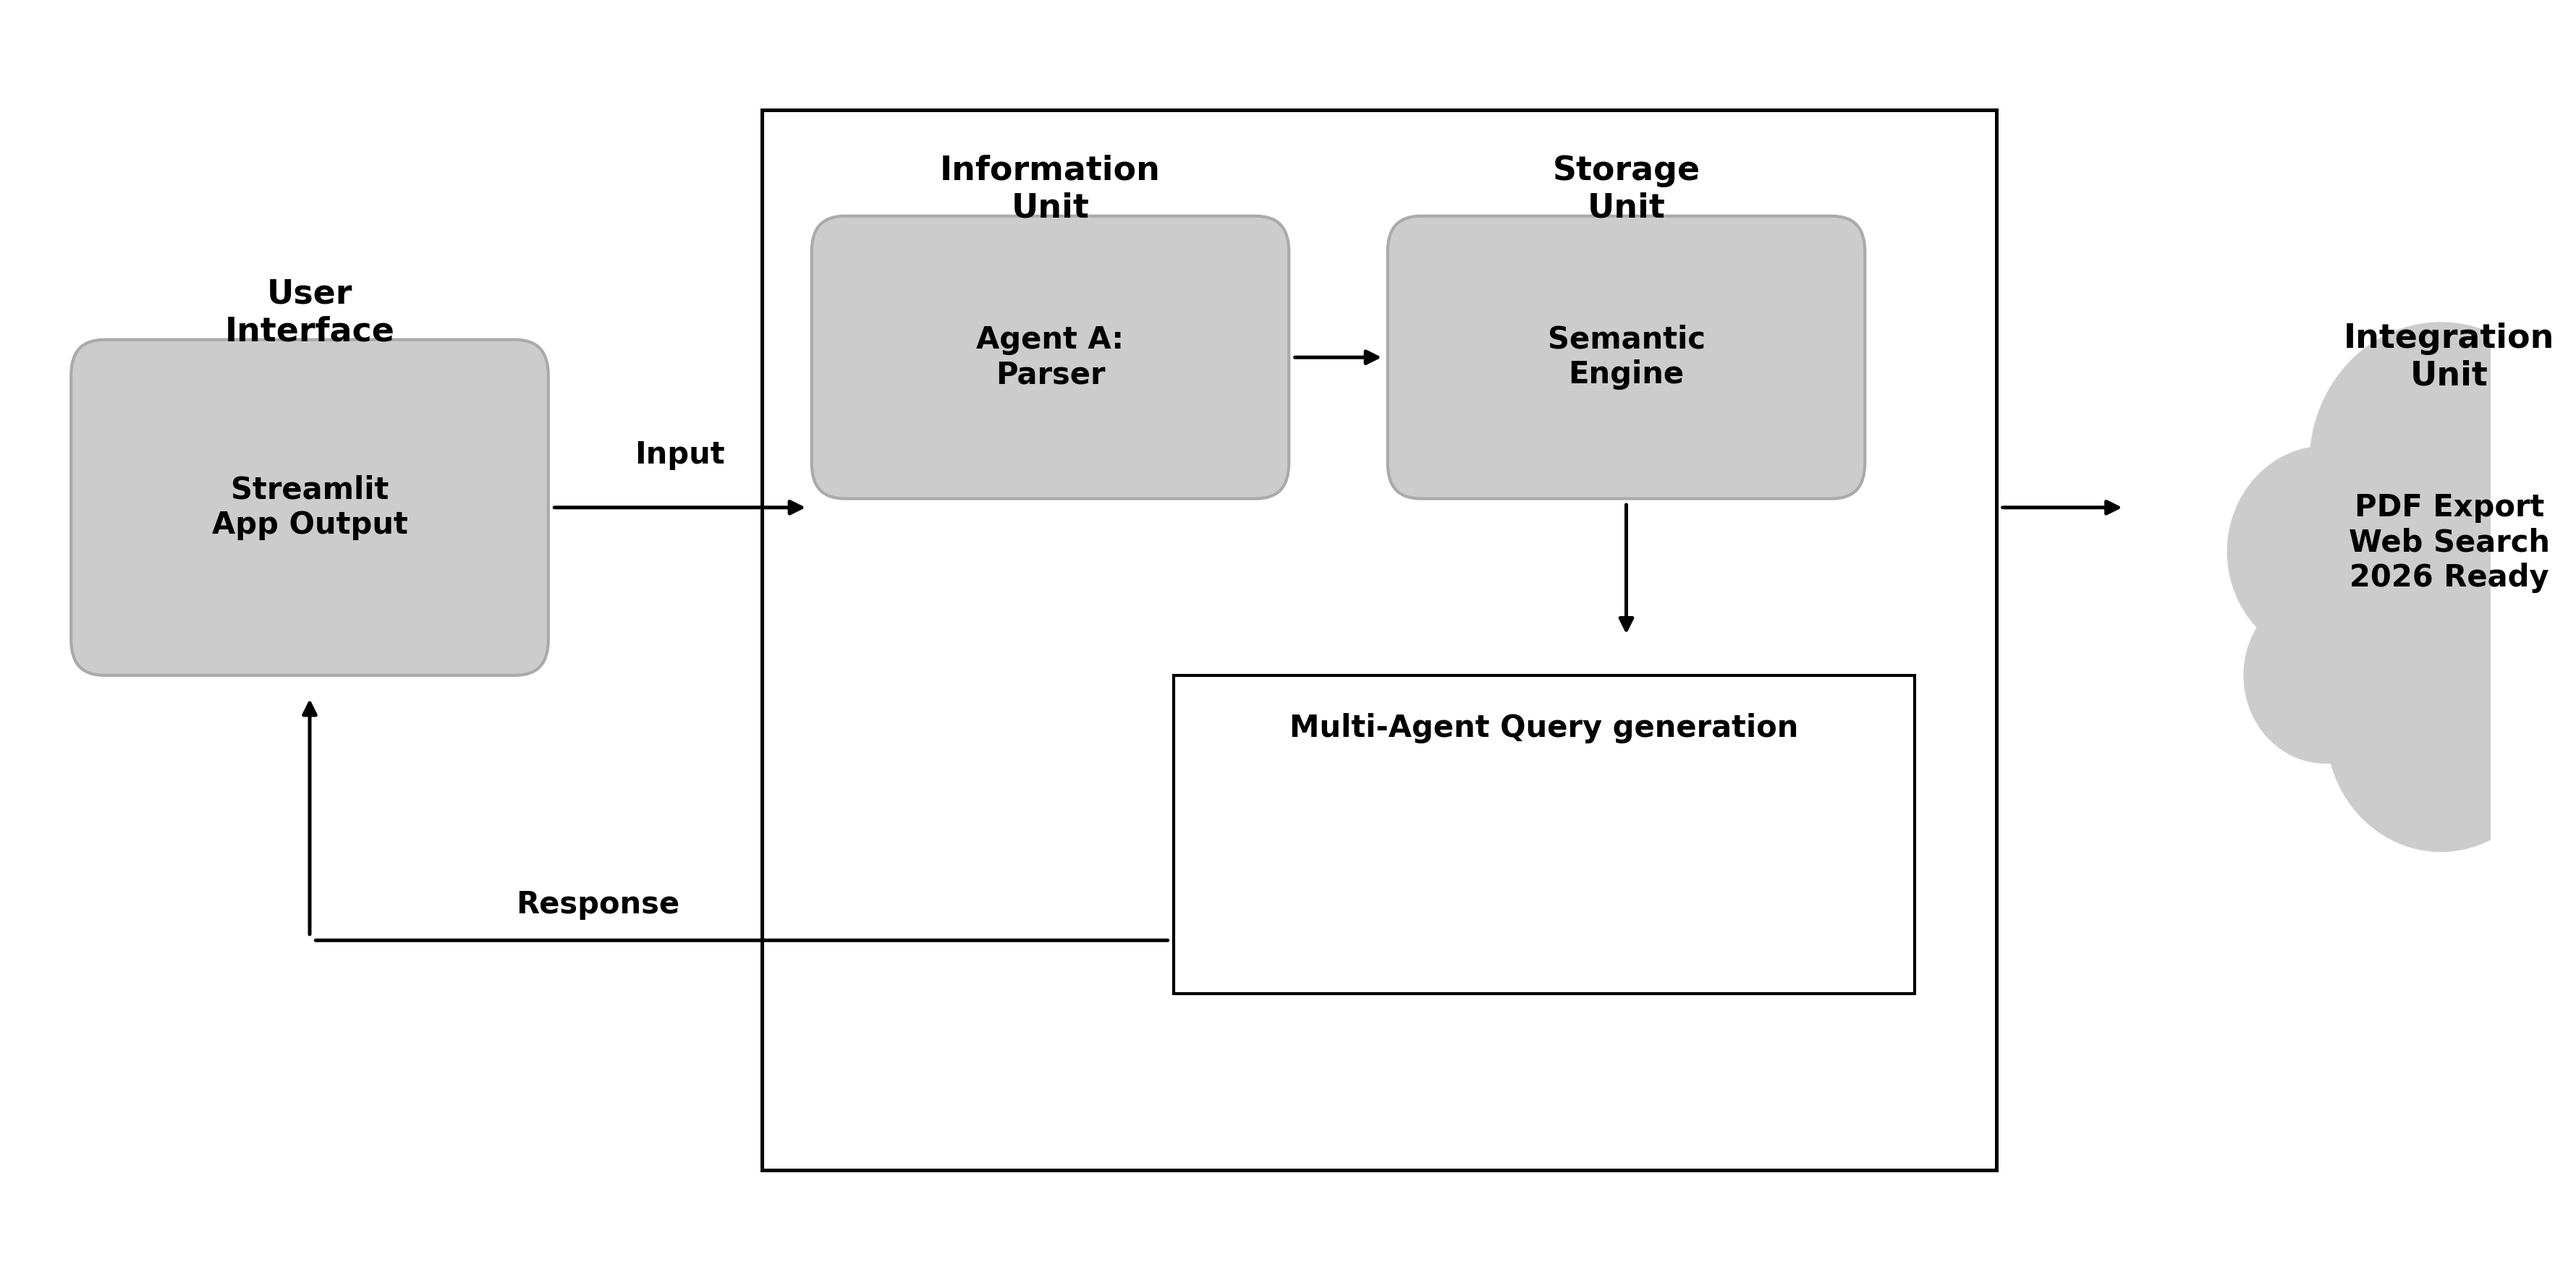
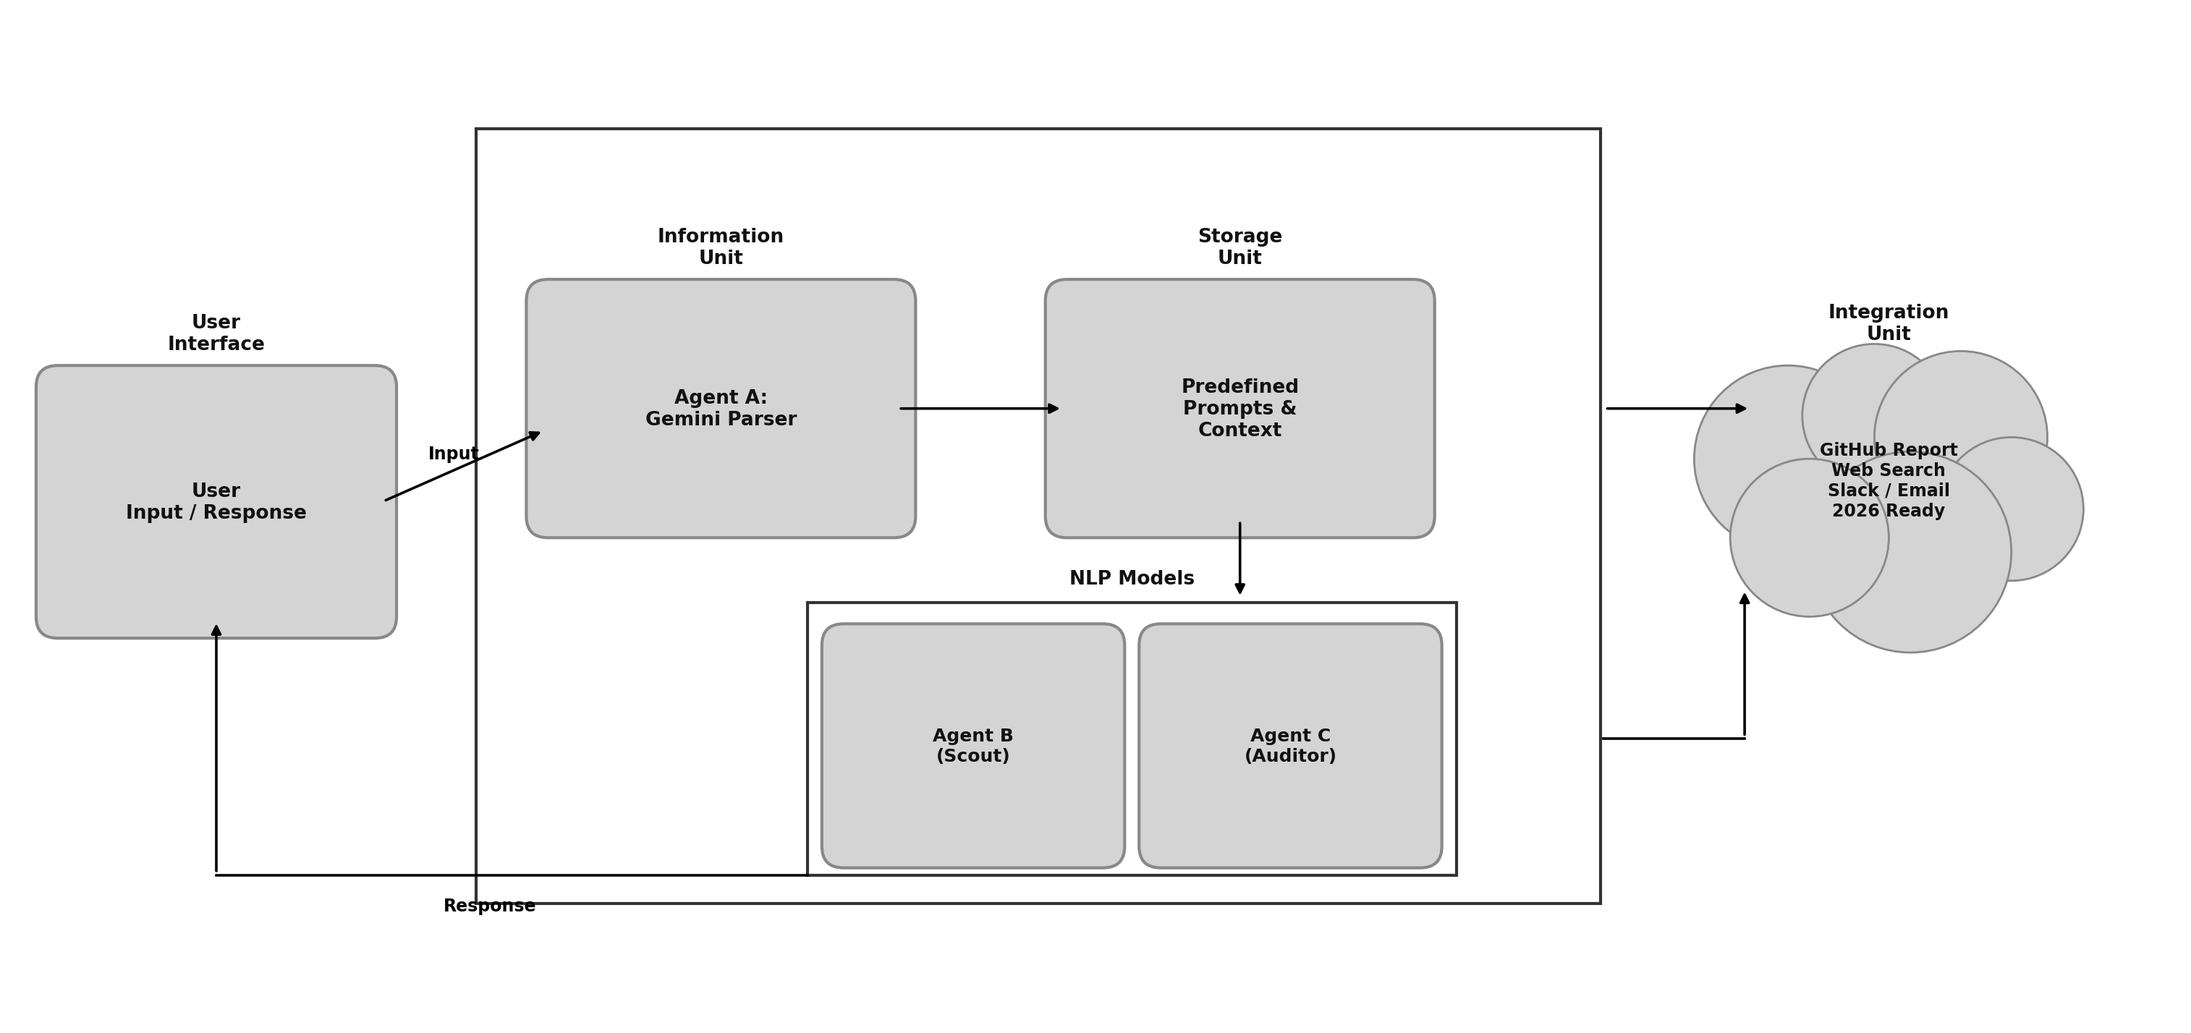
Refine architecture diagram: proper cloud, sub-agents and arrows

diff --git a/generate_diagram.py b/generate_diagram.py
@@ -1,82 +1,108 @@
 import matplotlib.pyplot as plt
 import matplotlib.patches as patches
+from matplotlib.patches import FancyBboxPatch, FancyArrowPatch
+import numpy as np
 
-fig, ax = plt.subplots(figsize=(12, 6))
+fig, ax = plt.subplots(figsize=(15, 7))
+fig.patch.set_facecolor('white')
+ax.set_facecolor('white')
 ax.axis('off')
 ax.set_xlim(0, 15)
 ax.set_ylim(0, 7)
 
-# Colors matching the requested visual style
-BOX_BG = "#cccccc"
-BOX_EC = "#aaaaaa"
-TEXT_COLOR = "black"
+BOX_BG = "#d4d4d4"
+BOX_EC = "#888888"
+CONTAINER_EC = "#333333"
+TEXT_COLOR = "#111111"
+TITLE_COLOR = "#111111"
 
-def draw_round_box(x, y, w, h, text, title=""):
-    box = patches.FancyBboxPatch((x, y), w, h, boxstyle="round,pad=0.2", ec=BOX_EC, fc=BOX_BG, zorder=3)
+def draw_box(ax, x, y, w, h, label, title=None, fontsize=9.5):
+    box = FancyBboxPatch((x, y), w, h, boxstyle="round,pad=0.15",
+                         facecolor=BOX_BG, edgecolor=BOX_EC, linewidth=1.5, zorder=3)
     ax.add_patch(box)
+    ax.text(x + w/2, y + h/2, label, ha='center', va='center',
+            fontsize=fontsize, fontweight='bold', color=TEXT_COLOR, zorder=4)
     if title:
-        ax.text(x + w/2, y + h + 0.35, title, ha='center', va='center', fontsize=11, fontweight='bold', color=TEXT_COLOR)
-    ax.text(x + w/2, y + h/2, text, ha='center', va='center', fontsize=10, fontweight='bold', color=TEXT_COLOR)
+        ax.text(x + w/2, y + h + 0.23, title, ha='center', va='bottom',
+                fontsize=9.5, fontweight='bold', color=TITLE_COLOR, zorder=4)
 
-def draw_container(x, y, w, h):
-    rect = patches.Rectangle((x, y), w, h, fill=False, edgecolor='black', linewidth=1.2, zorder=2)
+def draw_container(ax, x, y, w, h, label=None):
+    rect = patches.Rectangle((x, y), w, h, facecolor='none',
+                              edgecolor=CONTAINER_EC, linewidth=1.5, zorder=2)
     ax.add_patch(rect)
+    if label:
+        ax.text(x + w/2, y + h + 0.15, label, ha='center', va='bottom',
+                fontsize=10, fontweight='bold', color=TITLE_COLOR, zorder=4)
 
-def draw_cloud(x, y, w, h, text, title=""):
-    c1 = patches.Circle((x+0.5, y+0.5), 0.6, ec="none", fc=BOX_BG, zorder=3)
-    c2 = patches.Circle((x+1.2, y+1.0), 0.8, ec="none", fc=BOX_BG, zorder=3)
-    c3 = patches.Circle((x+1.8, y+0.6), 0.7, ec="none", fc=BOX_BG, zorder=3)
-    c4 = patches.Circle((x+1.0, y+0.2), 0.6, ec="none", fc=BOX_BG, zorder=3)
-    c5 = patches.Circle((x+2.0, y-0.1), 0.6, ec="none", fc=BOX_BG, zorder=3)
-    c6 = patches.Circle((x+0.5, y-0.2), 0.5, ec="none", fc=BOX_BG, zorder=3)
-    c7 = patches.Circle((x+1.2, y-0.5), 0.7, ec="none", fc=BOX_BG, zorder=3)
-    for c in [c1, c2, c3, c4, c5, c6, c7]:
-        ax.add_patch(c)
-    
+def draw_cloud(ax, cx, cy, label, title=None):
+    """Draw a cloud shape centred at (cx, cy)."""
+    radii = [0.65, 0.50, 0.60, 0.50, 0.70, 0.55]
+    offsets = [(-0.7, 0.25), (-0.1, 0.55), (0.5, 0.4), (0.85, -0.1), (0.15, -0.4), (-0.55, -0.3)]
+    for (dx, dy), r in zip(offsets, radii):
+        c = plt.Circle((cx + dx, cy + dy), r, facecolor=BOX_BG, edgecolor=BOX_EC, linewidth=1, zorder=3)
+        ax.add_artist(c)
+    ax.text(cx, cy + 0.1, label, ha='center', va='center',
+            fontsize=8.5, fontweight='bold', color=TEXT_COLOR, zorder=5, multialignment='center')
     if title:
-        ax.text(x + w/2, y + 1.2 + 0.4, title, ha='center', va='center', fontsize=11, fontweight='bold', color=TEXT_COLOR)
-    ax.text(x + w/2, y + h/2 - 0.2, text, ha='center', va='center', fontsize=10, fontweight='bold', color=TEXT_COLOR)
+        ax.text(cx, cy + 1.05, title, ha='center', va='bottom',
+                fontsize=9.5, fontweight='bold', color=TITLE_COLOR, zorder=5)
 
-def draw_arrow(x1, y1, x2, y2, text="", arrowstyle="-|>", connectionstyle="arc3"):
-    ax.annotate("", xy=(x2, y2), xytext=(x1, y1), 
-                arrowprops=dict(arrowstyle=arrowstyle, facecolor='black', edgecolor='black', lw=1.2, connectionstyle=connectionstyle), zorder=1)
-    if text:
-        ax.text((x1+x2)/2, (y1+y2)/2 + 0.3, text, ha='center', va='center', fontsize=10, fontweight='bold')
+def arrow(ax, x1, y1, x2, y2):
+    ax.annotate("", xy=(x2, y2), xytext=(x1, y1),
+                arrowprops=dict(arrowstyle="-|>", color="black", lw=1.3), zorder=5)
 
-# Architecture Elements
-# Left
-draw_round_box(0.5, 3.5, 2.5, 1.5, "Streamlit\nApp Output", title="User\nInterface")
+def line(ax, xs, ys):
+    ax.plot(xs, ys, color='black', lw=1.3, zorder=5)
 
-# Middle Container Box
-draw_container(4.5, 0.5, 7.5, 6)
 
-# Middle inner items
-draw_round_box(5.0, 4.5, 2.5, 1.2, "Agent A:\nParser", title="Information\nUnit")
-draw_round_box(8.5, 4.5, 2.5, 1.2, "Semantic\nEngine", title="Storage\nUnit")
+# ─── 1. User Interface box (left) ───────────────────────────────────────────
+draw_box(ax, 0.3, 2.8, 2.2, 1.6, "User\nInput / Response", title="User\nInterface")
 
-# NLP Models replacement (Multi-Agents)
-# White container for the sub list
-rect = patches.Rectangle((7.0, 1.5), 4.5, 1.8, fill=True, facecolor='white', edgecolor='black', linewidth=1, zorder=4)
-ax.add_patch(rect)
-ax.text(7.0 + 4.5/2, 1.5 + 1.8 - 0.3, "Multi-Agent Query generation", ha='center', va='center', fontsize=10, fontweight='bold', zorder=5)
-draw_round_box(7.5, 1.7, 1.5, 0.6, "Agent B\n(Scout)")
-draw_round_box(9.5, 1.7, 1.5, 0.6, "Agent C\n(Auditor)")
+# ─── 2. Big container (Information + Storage + NLP sub zone) ────────────────
+draw_container(ax, 3.2, 0.8, 7.8, 5.4)
 
-# Right
-draw_cloud(13.5, 3.5, 2.5, 1.5, "PDF Export\nWeb Search\n2026 Ready", title="Integration\nUnit")
+# ─── 3. Information Unit ────────────────────────────────────────────────────
+draw_box(ax, 3.7, 3.5, 2.4, 1.5, "Agent A:\nGemini Parser", title="Information\nUnit")
 
-# Arrows
-draw_arrow(3.2, 4.25, 4.8, 4.25, "Input")
-draw_arrow(7.7, 5.1, 8.3, 5.1, "")
-draw_arrow(9.75, 4.3, 9.75, 3.5, "")
+# ─── 4. Storage Unit ────────────────────────────────────────────────────────
+draw_box(ax, 7.3, 3.5, 2.4, 1.5, "Predefined\nPrompts &\nContext", title="Storage\nUnit")
 
-# Return response arrow (from NLP box back to User UI)
-draw_arrow(7.0, 1.8, 1.75, 1.8, "", arrowstyle="-", connectionstyle="arc3")
-draw_arrow(1.75, 1.8, 1.75, 3.2, "", arrowstyle="-|>", connectionstyle="arc3")
-ax.text(3.5, 2.0, "Response", ha='center', va='center', fontsize=10, fontweight='bold')
+# ─── 5. NLP / Multi-Agent sub-container ─────────────────────────────────────
+draw_container(ax, 5.5, 1.0, 4.5, 1.9)
+ax.text(5.5 + 4.5/2, 3.0, "NLP Models", ha='center', va='bottom',
+        fontsize=9.5, fontweight='bold', color=TITLE_COLOR, zorder=4)
 
-# Arrow to integration
-draw_arrow(12.0, 4.25, 12.8, 4.25, "")
+draw_box(ax, 5.75, 1.2, 1.8, 1.4, "Agent B\n(Scout)", fontsize=9)
+draw_box(ax, 7.95, 1.2, 1.8, 1.4, "Agent C\n(Auditor)", fontsize=9)
 
-plt.tight_layout()
-plt.savefig("v:/PROJECTS/ai+agent/workflow_demo.png", dpi=300, bbox_inches='tight')
+# ─── 6. Integration Unit (cloud, right) ─────────────────────────────────────
+draw_cloud(ax, 13.0, 3.65,
+           "GitHub Report\nWeb Search\nSlack / Email\n2026 Ready",
+           title="Integration\nUnit")
+
+# ─── ARROWS ──────────────────────────────────────────────────────────────────
+# Input: User → Information Unit
+arrow(ax, 2.55, 3.6, 3.68, 4.1)
+ax.text(3.05, 3.9, "Input", fontsize=8.5, fontweight='bold', ha='center')
+
+# Information Unit → Storage Unit
+arrow(ax, 6.12, 4.25, 7.28, 4.25)
+
+# Storage Unit → NLP sub-container
+arrow(ax, 8.5, 3.48, 8.5, 2.92)
+
+# NLP sub-container → Integration Unit
+line(ax, [11.02, 12.0], [1.95, 1.95])
+arrow(ax, 12.0, 1.95, 12.0, 3.0)
+
+# Response: bottom of NLP sub → bottom of User box
+line(ax,  [5.5, 1.4], [1.0, 1.0])
+arrow(ax, 1.4, 1.0, 1.4, 2.78)
+ax.text(3.3, 0.75, "Response", fontsize=8.5, fontweight='bold', ha='center')
+
+# Storage → Integration
+arrow(ax, 11.02, 4.25, 12.05, 4.25)
+
+plt.tight_layout(pad=0.2)
+plt.savefig("v:/PROJECTS/ai+agent/workflow_demo.png", dpi=200, bbox_inches='tight', facecolor='white')
+print("Saved!")
